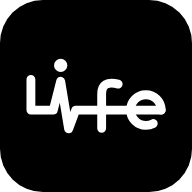
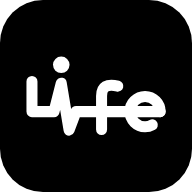
Товща лінія знака — щоб він читався білим, а не сіруватим (#46)
Колір у знаку й був чистий #ffffff, максимум 255 — це зміряно на пікселях.
Сірим його робила товщина: на 60 пікселях лінія завтовшки два-три пікселі
більш ніж наполовину складається з сірої облямівки згладжування, і око
читає саме її.

Колір тут не важіль — біліше за біле не буває. Важіль один: товщина, яка
дає лінії суцільне біле ядро. Порівняв 30, 34, 38 і 42 у трьох розмірах;
на 42 «e» починає запливати, тож 38.

Центрування й розмір знака перерахувались самі — генератор міряє межі
малюнка, а не задає їх числом. Тести на центр, розмір і запас під обрізку
Android зелені.

Claude-Session: https://claude.ai/code/session_011SFxU53Yk2yNQLJMEjVmsf

Changed region(s): [[0.125, 0.2812, 0.875, 0.7188], [0.125, 0.375, 0.25, 0.5625]]

diff --git a/icons/build.html b/icons/build.html
@@ -15,7 +15,11 @@
 const W = 560, H = 285, SHIFT = 45;
 const midY = 150 + SHIFT, capTop = 46 + SHIFT, desc = 212 + SHIFT;
 const Lx = 62, fx = 302, ecx = 452, er = 52;
-const SW = 30, TOP = 52 + SHIFT, BOT = 214 + SHIFT, DOT = 0.75, GAP = 16;
+// Товщина лінії — не лише про вигляд. На 60 пікселях лінія завтовшки два-три
+// пікселі більш ніж наполовину складається з сірої облямівки згладжування, і
+// око читає знак як сіруватий, хоч колір у ньому чистий білий. Товща лінія
+// дає суцільне біле ядро — тому 38, а не 30, з яких починалось.
+const SW = 38, TOP = 52 + SHIFT, BOT = 214 + SHIFT, DOT = 0.75, GAP = 16;
 // Фон — чистий чорний, а не майже чорний: серед кольорових сусідів на
 // робочому столі саме він читається як «глибокий», а #17171B поруч із ними
 // виглядав присірено.

diff --git a/README.md b/README.md
@@ -881,6 +881,13 @@ SDK (`initializeApp`, `auth`, `firestore` — `appCheck` і `functions`
   помітно вище, ніж треба. Око читає смугу від верху «L» до основної лінії, а
   її середина майже збігається із серединою меж.
 
+  **Товщина лінії тут не лише про вигляд.** Знак білий чистим `#ffffff`, але
+  на екрані телефона він читався сіруватим — і це не омана: на 60 пікселях
+  лінія завтовшки два-три пікселі більш ніж наполовину складається з сірої
+  облямівки згладжування, тож око бачить саме сірий. Колір змінити не можна,
+  біліше за біле не буває; єдиний важіль — товщина, яка дає лінії суцільне
+  біле ядро. Звідси 38 замість 30, з яких починалось.
+
   **Той самий знак стоїть і в інтерфейсі** — у шапці головної та кожного
   розділу, в колонці бічного меню й на екрані входу. Там він inline-SVG у
   `currentColor`, тож у світлій темі темний, у темній білий, і другого файлу
